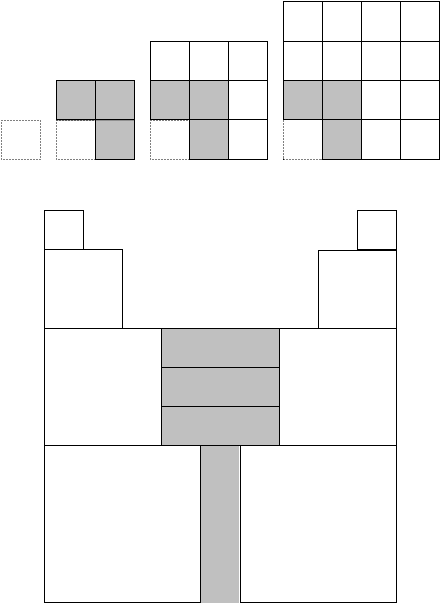
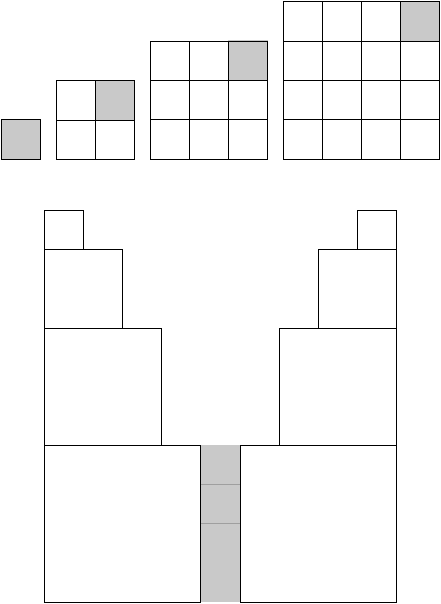
many figures in chapter 6

diff --git a/SUMMATION.tex b/SUMMATION.tex
@@ -1248,7 +1248,8 @@ Figs.~\ref{fig:riemann-n2-1} and~\ref{fig:riemann-n2-2} illustrate our stratagem
 The rectangles in Fig.~\ref{fig:riemann-n2-1} are embellished by a continuous curve (labeled (a) in the figure) that connects their upper lefthand corners.
 \begin{figure}[htb]
 \centerline{
-\includegraphics[scale=0.3]{FiguresMaths/SumSquaresContinuous1}
+\includegraphics[scale=0.3]{FiguresMaths/SumSquaresContinuous}
+%\includegraphics[scale=0.3]{FiguresMaths/SumSquaresContinuous1}
 }
 \caption{The summation $S_2(n) = \sum_{i=1}^n i^2$ represented as the aggregate area of a sequence of unit-width shaded rectangles.  The summation is bounded above by the area under the continuous curve (a) that connects the upper lefthand corners of the rectangles.  The area under curve (a) is $\int_0^n \ (x+1)^2 dx$.  }
 \label{fig:riemann-n2-1}
@@ -1262,7 +1263,8 @@ Because this curve completely ``covers'' the rectangles (which we emphasize by s
 The rectangles in Fig.~\ref{fig:riemann-n2-2} are accompanied by a continuous curve (labeled (b) in the figure) that connects the upper righthand corners of the rectangles.
 \begin{figure}[htb]
 \centerline{
-\includegraphics[scale=0.3]{FiguresMaths/SumSquaresContinuous2}
+\includegraphics[scale=0.3]{FiguresMaths/SumSquaresContinuous}
+%\includegraphics[scale=0.3]{FiguresMaths/SumSquaresContinuous2}
 }
 \caption{The summation $S_2(n)$ represented as the aggregate area of a sequence of unit-width unshaded rectangles.  The summation is bounded from below by the area under the continuous curve (b) that connects the upper righthand corners of the rectangles.  The area under curve (b) is $\int_1^n \ x^2 dx$.}
 \label{fig:riemann-n2-2}
@@ -1282,7 +1284,8 @@ heights $1/11$, $1/12$, etc., to represent larger values of $n$. \index{harmonic
 In Fig.~\ref{fig:riemann-harmonic1}, the rectangles are accompanied by a continuous curve (marked (a) in the figure) that passes through their upper righthand corners.
 \begin{figure}[htb]
 \centerline{
-\includegraphics[scale=0.3]{FiguresMaths/RiemannSum1}
+\includegraphics[scale=0.3]{FiguresMaths/RiemannSum}
+%\includegraphics[scale=0.3]{FiguresMaths/RiemannSum1}
 }
 \caption{The summation $S^{(H)}(n) \ = \ \sum_{i=1}^n \ 1/i$ represented as the aggregate area of a sequence of unit-width rectangles.  $S^{(H)}(n)$ is bounded from above by the area under a continuous curve (a) that passes through the upper righthand corners of the rectangles.  This area is $ \int_1^n \ \frac{1}{x} dx$. }
 \label{fig:riemann-harmonic1}
@@ -1295,7 +1298,8 @@ Because this curve completely ``covers'' the rectangles (which we emphasize by s
 In Fig.~\ref{fig:riemann-harmonic2}, the rectangles are accompanied by a continuous curve (marked (b) in the figure) that passes through their upper lefthand corners.
 \begin{figure}[htb]
 \centerline{
-\includegraphics[scale=0.3]{FiguresMaths/RiemannSum2}
+\includegraphics[scale=0.3]{FiguresMaths/RiemannSum}
+%\includegraphics[scale=0.3]{FiguresMaths/RiemannSum2}
 }
 \caption{Representing the summation $S^{(H)}(n)$ as in Fig.~\ref{fig:riemann-harmonic1}, the summation is bounded from below by the area under a continuous curve (b) that passes through the upper lefthand corners of the rectangles.  The area under curve (b) is $\int_0^{n-1} \ \frac{1}{x+1} dx$.}
 \label{fig:riemann-harmonic2}
